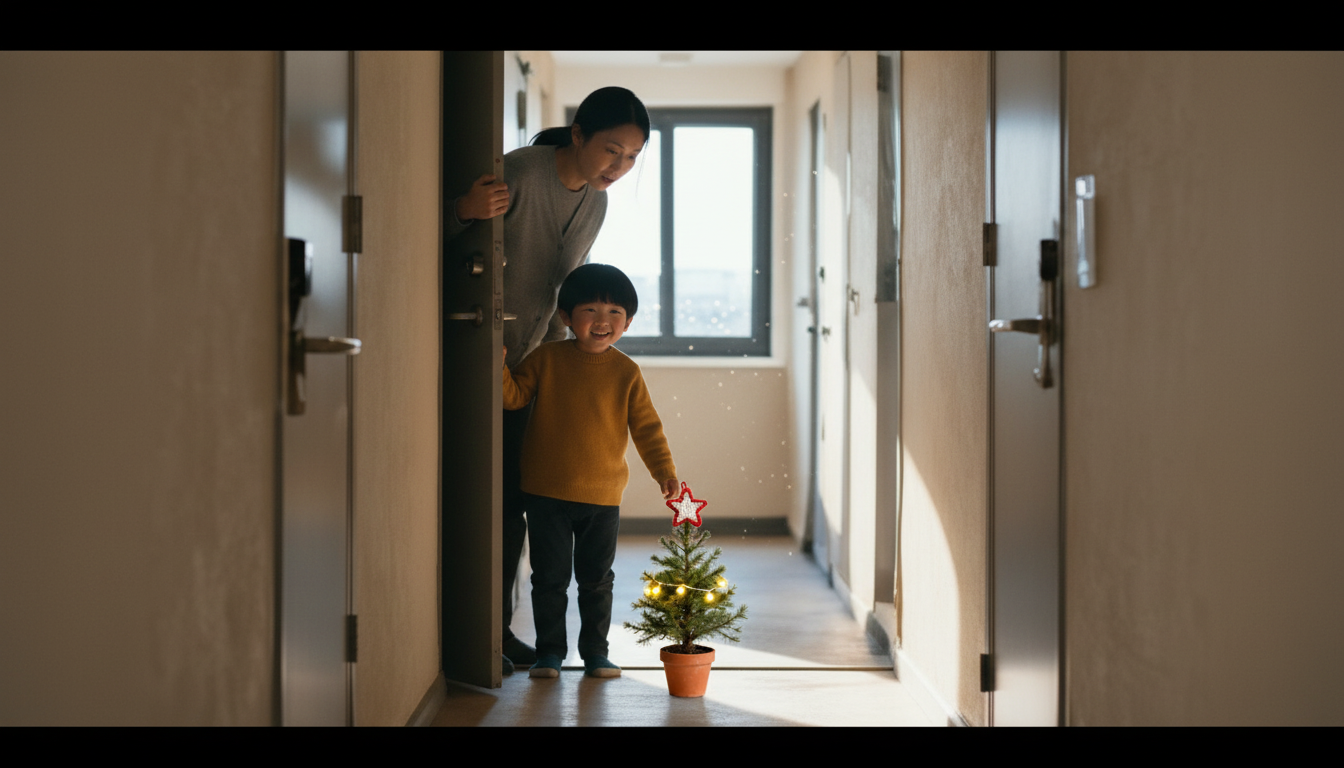
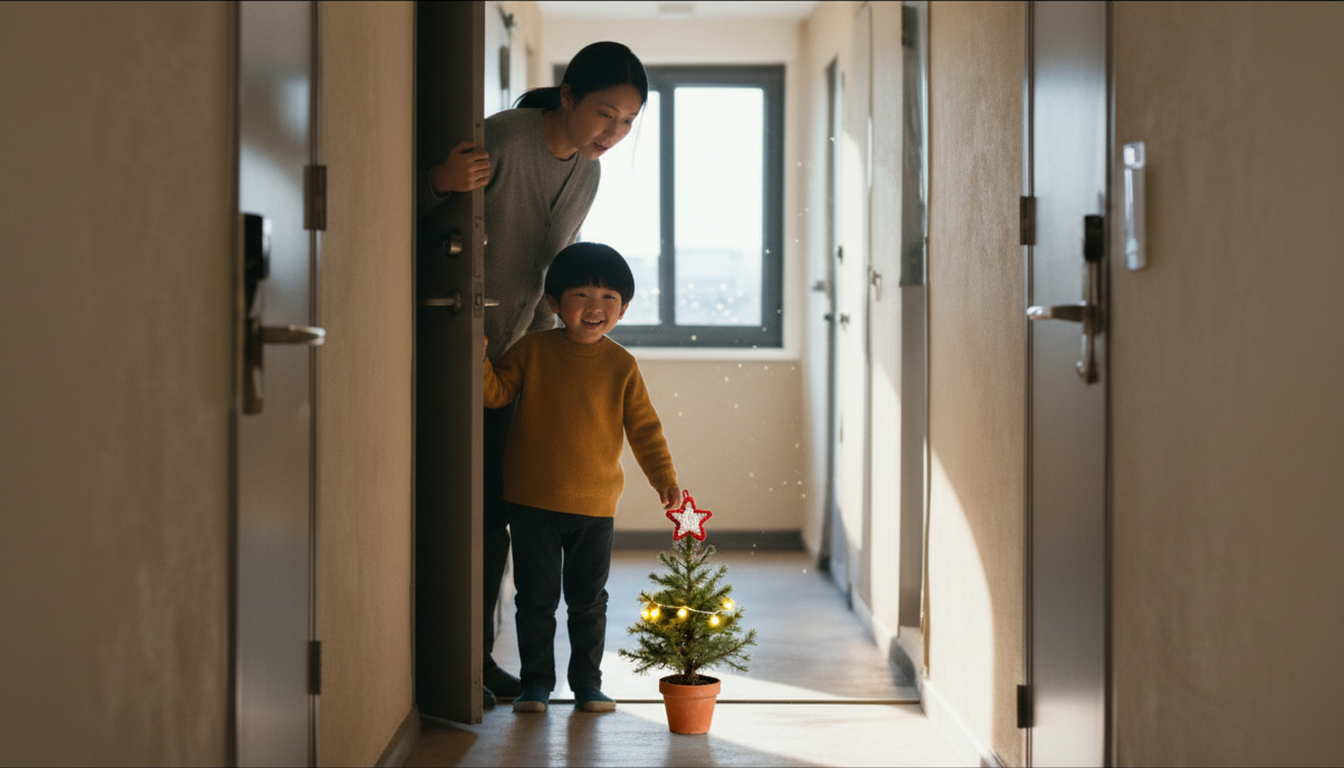
EP4 파일럿 키프레임 검수: S41 레터박스 크롭, S50 재생성 스펙(단독 인물 강제), 복도 서술을 잠긴 실내 복도로 정정
Claude-Session: https://claude.ai/code/session_01UqsXoCW5Jjkkv4vnm4Py3i

diff --git a/scripts/build_ep4_phase3.py b/scripts/build_ep4_phase3.py
@@ -114,8 +114,8 @@ S = [
     ("S01", "reuse", "insert", "cctv", "static", [], "Reuse of S44 (CCTV monitor footage) — same clip, trimmed.", "", ""),
     ("S02", "react", "cu", "office", "push", [], "Reuse of S45 keyframe (mother's tearful face lit by the monitor).", "", ""),
     ("S03", "card", "long", "dawn_dark", "static", ["LOC@corridor-18f-night"],
-     "No people. The dark 18th-floor outdoor corridor of an old Japanese danchi at 4 a.m., the motion-sensor light off, the steel door of unit 1801 at frame right with a small blank metal number plate beside it (plate faces camera, blank).",
-     "Long exterior corridor, railing on the left with falling snow beyond, row of identical steel doors, blank walls", "Stillness"),
+     "No people. The dark 18th-floor interior corridor of an old Japanese apartment block at 4 a.m., the motion-sensor ceiling light off, faint moonlight from the window at the far end, the steel door of unit 1801 at frame right with a small blank metal number plate beside it (plate faces camera, blank).",
+     "Long narrow interior corridor, beige textured walls, identical steel doors on both sides, window at the far end with snow outside, dome camera on the ceiling", "Stillness"),
     ("S04", "card", "xlong", "snow_night", "static", ["LOC@apt-gate-winter-night"],
      "No people. Extreme long shot of a snow-covered Japanese public housing complex at night, many apartment windows glowing warm, snow falling.",
      "Several mid-rise concrete apartment blocks, snowy courtyard, bare trees, streetlights", "Peaceful, lonely"),
@@ -218,8 +218,8 @@ S = [
      "Full shot from behind: Kim climbs the stairs slowly, hugging the small tree to his chest; the motion-sensor light on the floor above clicks on. Slow steady steps only.",
      "Concrete stairwell", "Hushed determination"),
     ("S37", "n", "long", "dawn_corr", "static", ["KIMW@fullbody-back", "PROP@tree", "LOC@corridor-18f-night"],
-     "Static rear full shot on the 18th-floor corridor: Kim sets the small lit tree down in front of the steel door of unit 1801 (blank metal number plate beside the door), stands still for a moment, then turns away (head turn within 15 degrees) toward the stairs.",
-     "Exterior corridor, railing, snow beyond", "Silent gift"),
+     "Static rear full shot in the 18th-floor interior corridor: Kim sets the small lit tree down in front of the steel door of unit 1801 (blank metal number plate beside the door), stands still for a moment, then turns away (head turn within 15 degrees) toward the stairs.",
+     "Narrow interior corridor, window at the far end, dim", "Silent gift"),
     ("S38", "v", "insert", "dawn_dark", "static", ["PROP@tree", "LOC@corridor-18f-night"],
      "No people. Insert: the small tree on the floor at the door, knitted star on top, tiny lights glowing; the sensor light goes off and only the tree lights remain. Blank metal plate visible beside the door.",
      "Dark corridor", "Afterglow"),

diff --git a/scripts/build_ep4_keyframes.py b/scripts/build_ep4_keyframes.py
@@ -52,12 +52,12 @@ COMPOSITION = {
     "S36": ("Camera low on the stairs behind him: Kim seen from behind, three or four steps above the camera, mid-climb, "
             "the small tabletop tree with the knitted red-and-white star hugged against his chest (only the top of the tree and "
             "the star visible over his shoulder). One warm sensor light glows on the landing above; the rest is dim and cool."),
-    "S41": ("Exterior corridor, camera facing the open steel door of unit 1801 from the side at child height: the mother stands "
+    "S41": ("Interior 18th-floor corridor (same as the location reference), camera facing the open steel door of unit 1801 from the side at child height: the mother stands "
             "in the doorway in a plain grey cardigan, frozen, one hand on the door; Ren beside her beams with his mouth closed and "
             "points down at the small lit tree with the knitted star standing on the corridor floor at their feet. "
             "Both faces clearly visible, matching their references."),
-    "S50": ("SINGLE PORTRAIT: exactly one person (Kim), chest-up close-up inside the guard booth, facing slightly camera-left "
-            "toward someone off-screen, head straight. His face must be the exact same face as the KIM reference. "
+    "S50": ("SINGLE PORTRAIT: exactly one person (Kim) and NOBODY else — no foreground shoulder, no back of another head, "
+            "no over-the-shoulder framing. Chest-up close-up inside the guard booth, looking just off-lens camera-left, head straight. His face must be the exact same face as the KIM reference. "
             "A faint kind smile is already on his face (50%), lips just parted. No hands, no cup, no kettle in frame."),
 }
 
